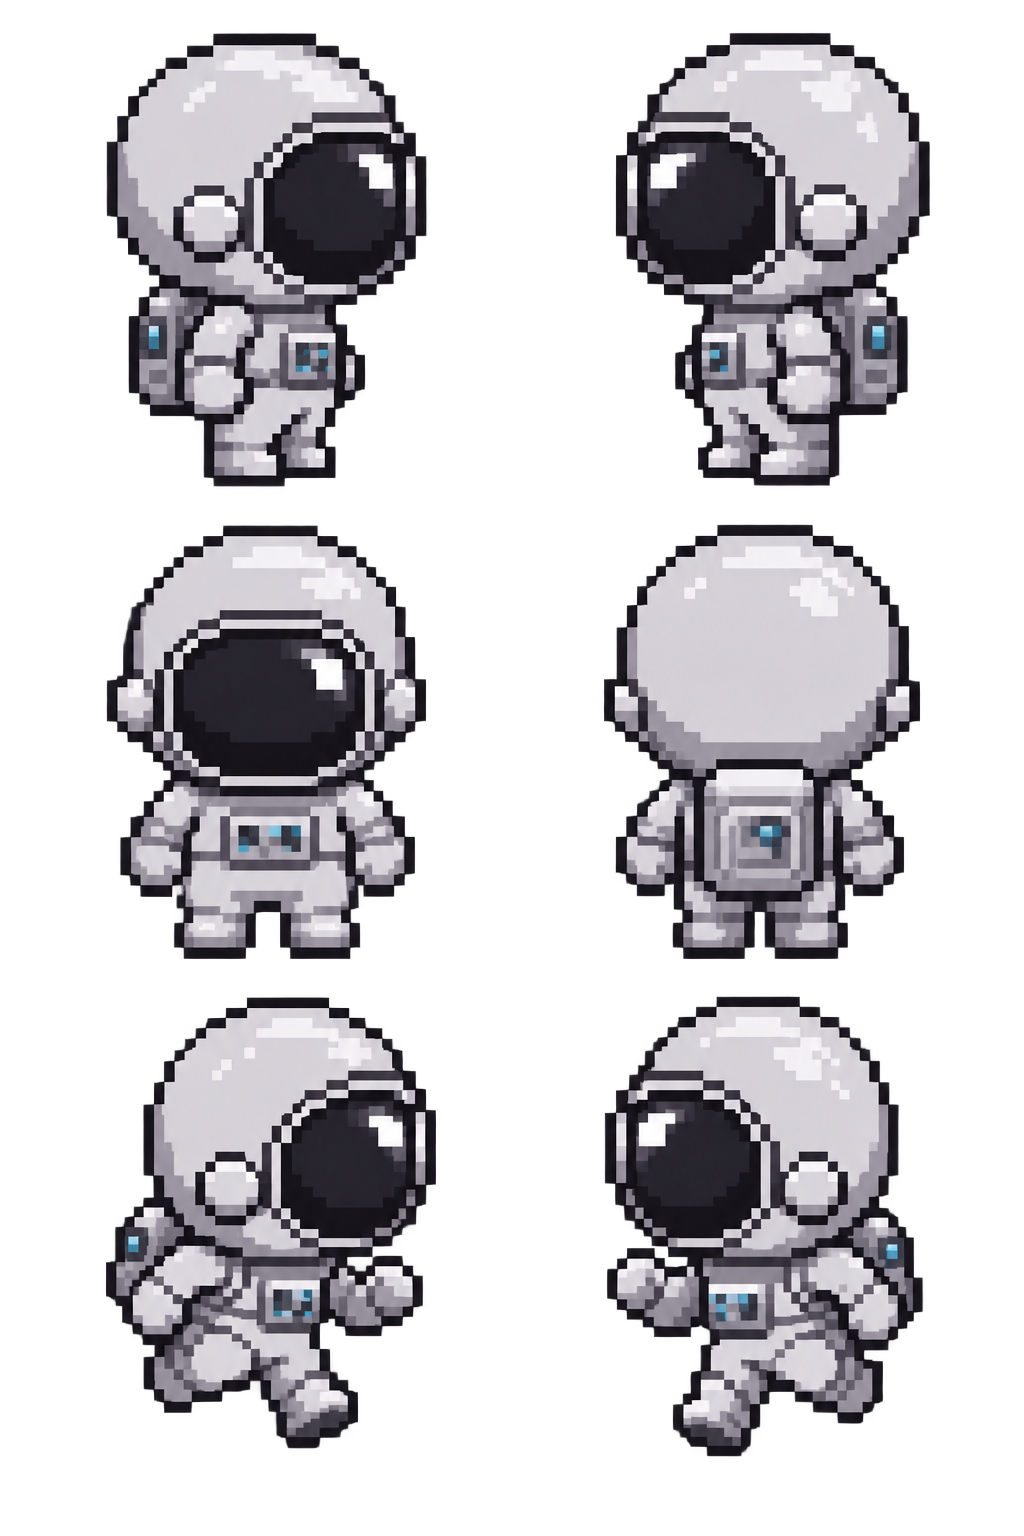
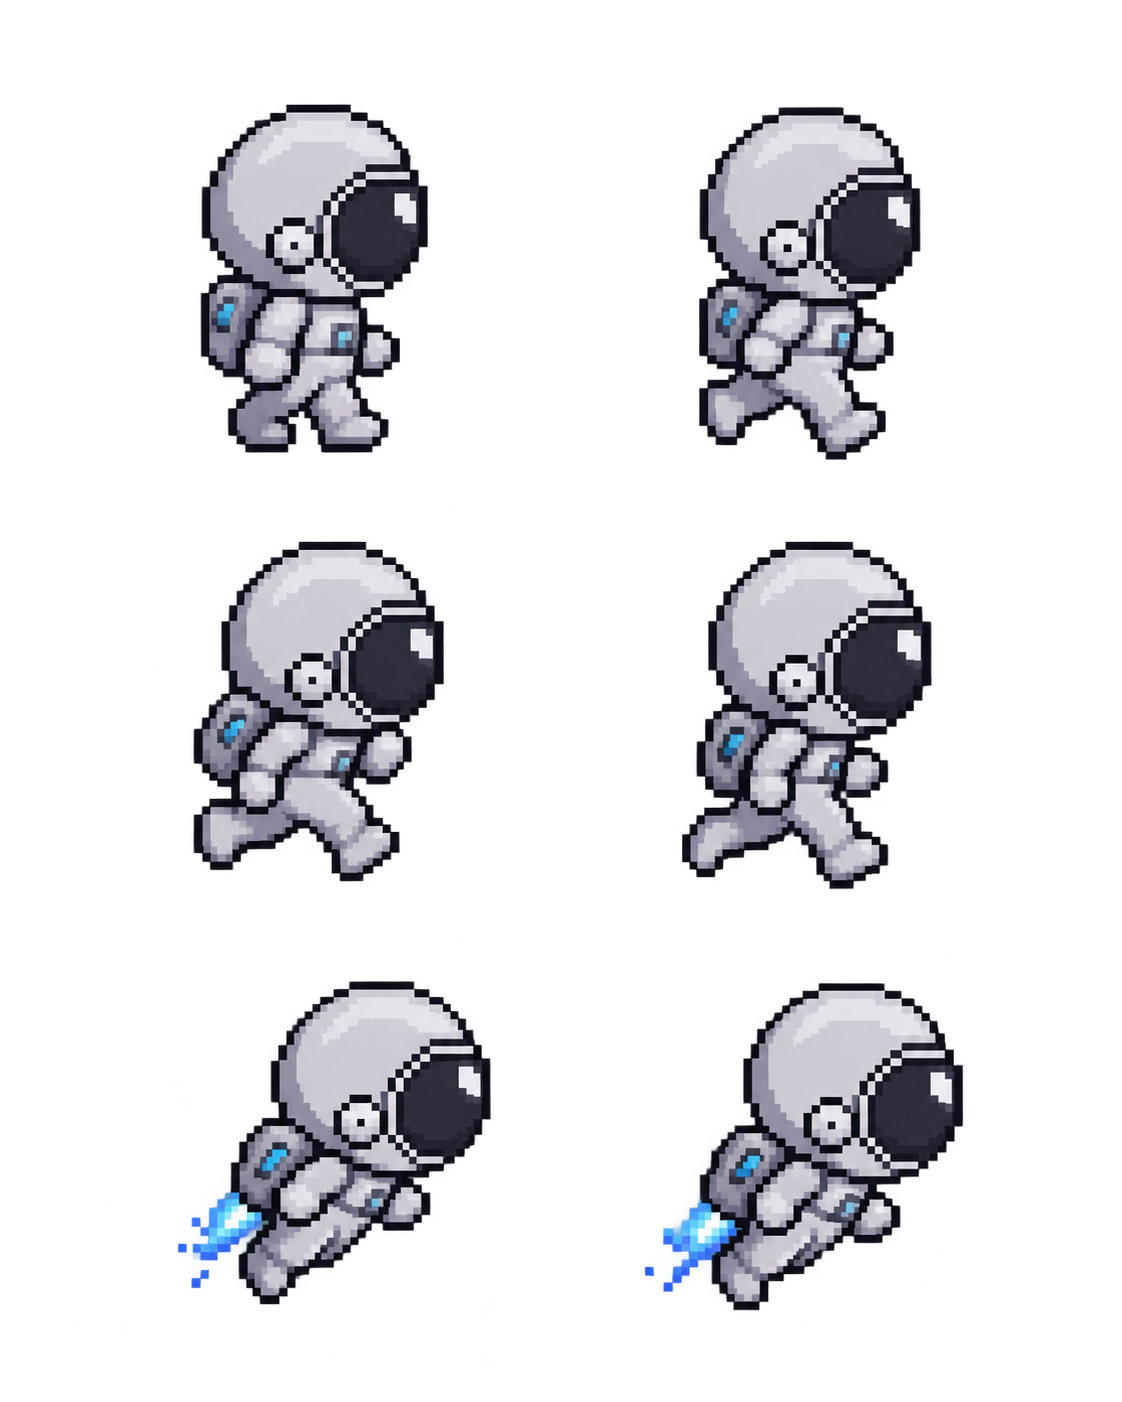
Update Astronaut sprite data and add new astronaut image

diff --git a/_projects/games/gamify/levels/GameLevelSpace.js b/_projects/games/gamify/levels/GameLevelSpace.js
@@ -25,31 +25,37 @@ class GameLevelSpace {
     };
 
     // Player Data for Astronaut
-    const sprite_src_astronaut = path + "/images/projects/gamify/space/astronaut.png"; // be sure to include the path
-    const ASTRONAUT_SCALE_FACTOR = 5;
-    const sprite_data_astronaut = {
-       id: 'Astronaut',
-        name: 'mainplayer',
-       greeting: "Hi I am Astronaut, the space explorer. I am looking for wisdom and adventure!",
+const sprite_src_astronaut = path + "/images/projects/gamify/space/astronaut.png"; // be sure to include the path
+const ASTRONAUT_SCALE_FACTOR = 5;
+const sprite_data_astronaut = {
+    id: 'Astronaut',
+    name: 'mainplayer',
+    greeting: "Hi I am Astronaut, the space explorer. I am looking for wisdom and adventure!",
     src: sprite_src_astronaut,
     SCALE_FACTOR: ASTRONAUT_SCALE_FACTOR,
     STEP_FACTOR: 1000,
     ANIMATION_RATE: 50,
     GRAVITY: true,
-    INIT_POSITION: { x: 0, y: height - (height/ASTRONAUT_SCALE_FACTOR) }, 
-    pixels: {height: 1536, width: 1024},
-    orientation: {rows: 3, columns: 2 },
-    down: {row: 0, start: 0, columns: 2 },
-    downLeft: {row: 0, start: 0, columns: 2, mirror: true, rotate: Math.PI/16 }, // mirror is used to flip the sprite
-    downRight: {row: 0, start: 0, columns: 2, rotate: -Math.PI/16 },
-    left: {row: 1, start: 0, columns: 2, mirror: true }, // mirror is used to flip the sprite
-    right: {row: 1, start: 0, columns: 2 },
-    up: {row: 2, start: 0, columns: 2},
-    upLeft: {row: 2, start: 0, columns: 2, mirror: true, rotate: -Math.PI/16 }, // mirror is used to flip the sprite
-    upRight: {row: 2, start: 0, columns: 2, rotate: Math.PI/16 },
+    INIT_POSITION: { x: 0, y: height - (height / ASTRONAUT_SCALE_FACTOR) },
+    pixels: { height: 1536, width: 1024 },
+    orientation: { rows: 3, columns: 2 },
+    // 图片本身都是朝右的侧面姿势，所以 right 用原图，left 用 mirror 翻转
+    // row 0 = 行走, row 1 = 跑步, row 2 = 喷气飞行
+    walk: {
+        right: { row: 0, start: 0, columns: 2 },
+        left:  { row: 0, start: 0, columns: 2, mirror: true }
+    },
+    run: {
+        right: { row: 1, start: 0, columns: 2 },
+        left:  { row: 1, start: 0, columns: 2, mirror: true }
+    },
+    fly: {
+        right: { row: 2, start: 0, columns: 2 },
+        left:  { row: 2, start: 0, columns: 2, mirror: true }
+    },
     hitbox: { widthPercentage: 0.45, heightPercentage: 0.2 },
     keypress: { up: 87, left: 65, down: 83, right: 68 } // W, A, S, D
-    };
+};
 
     // NPC Data for Byte Nomad (Smaller Version)
     const sprite_src_nomad = path + "/images/projects/gamify/water/animwizard.png"; // be sure to include the path
